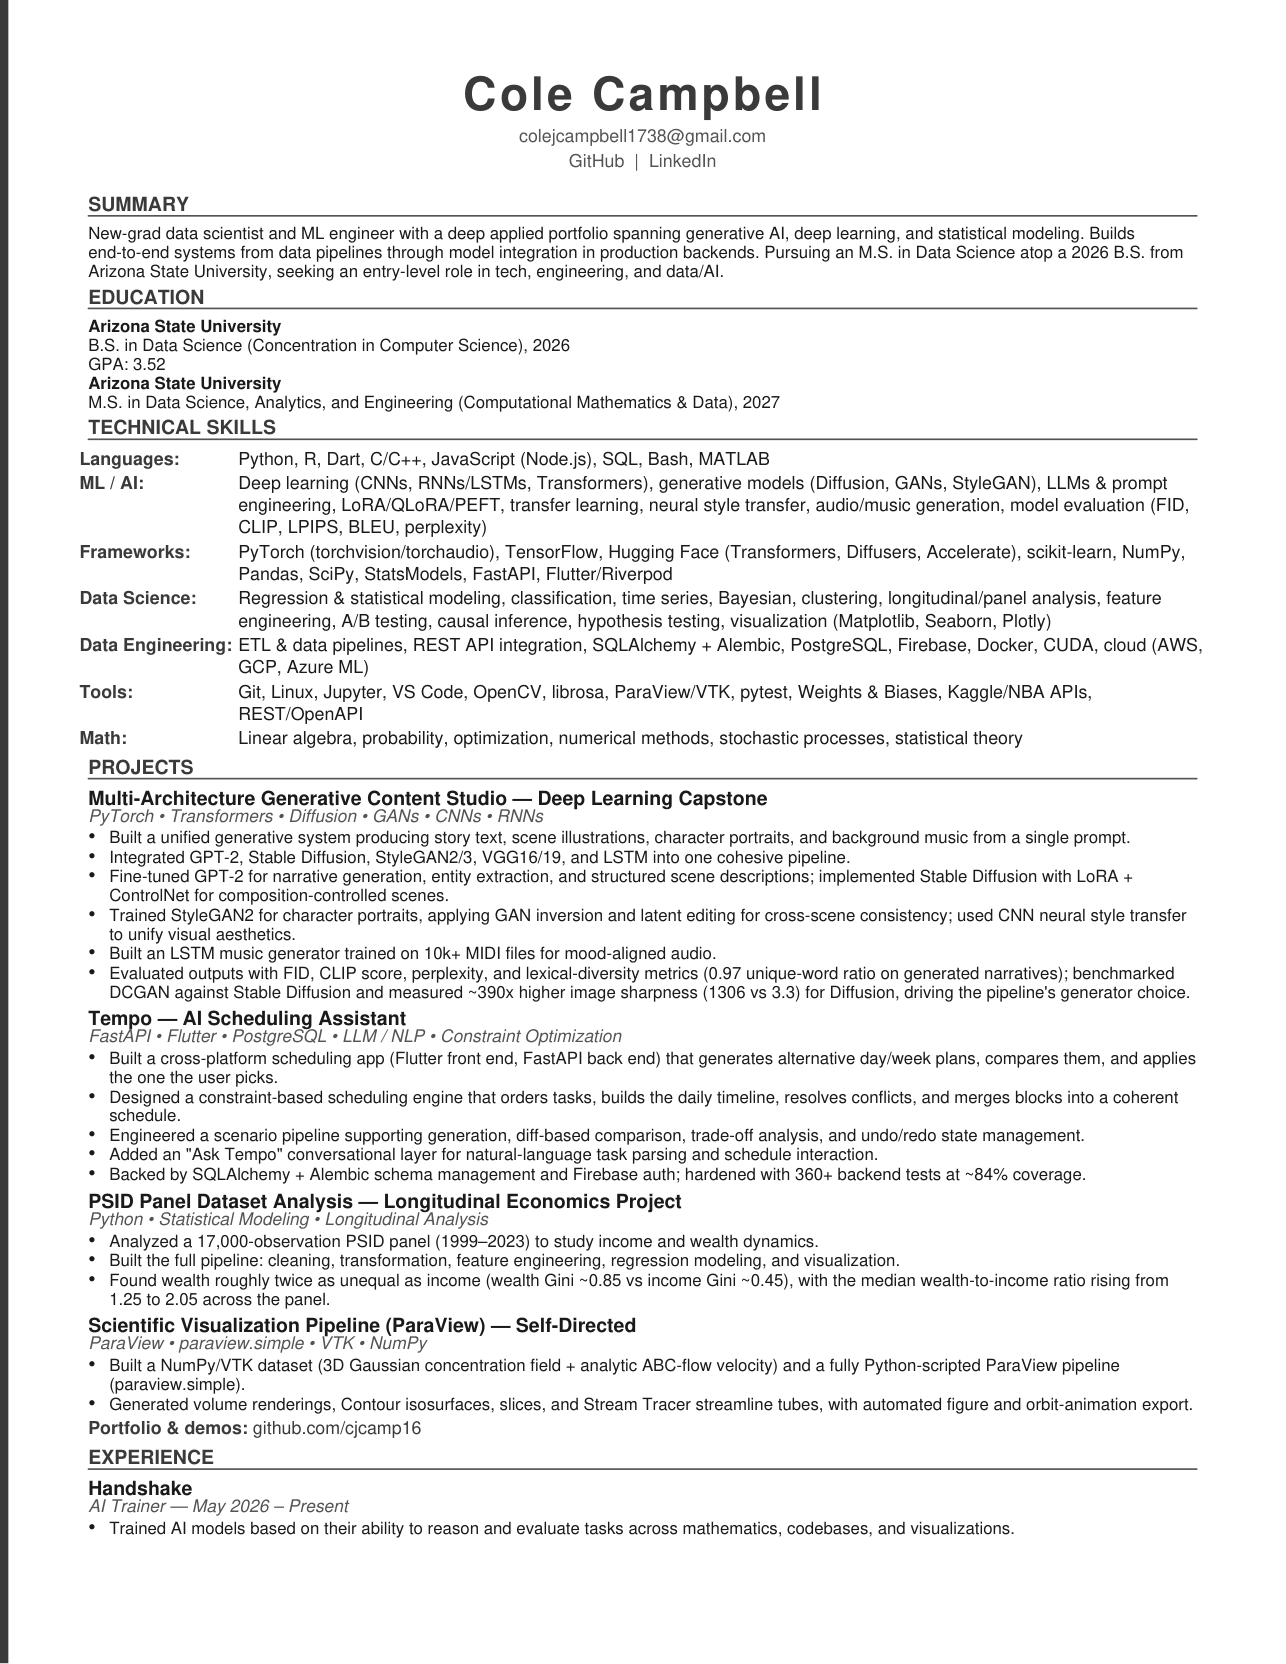
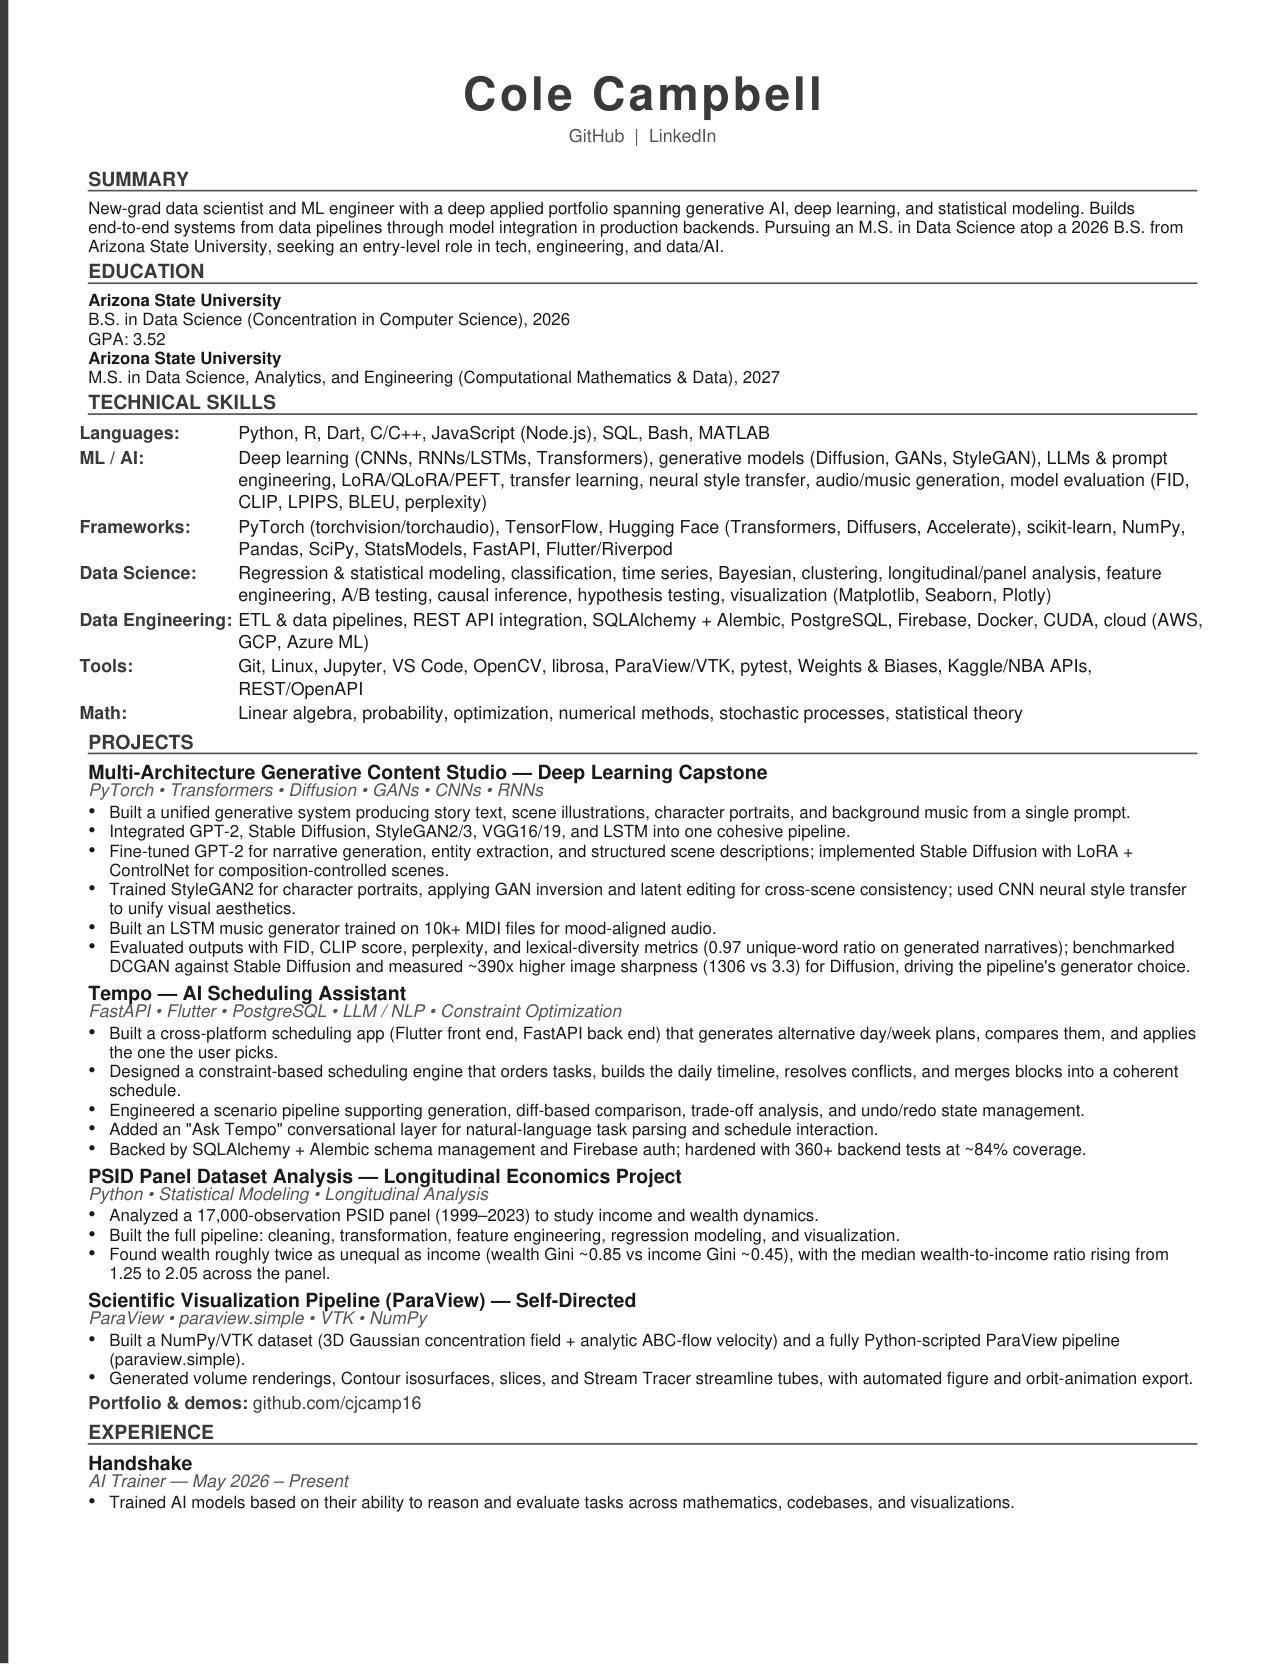
fix(styles): strip email from public résumés + sites too (anti-spam)

Changed region(s): [[0.0622, 0.0625, 0.9331, 0.9375]]

diff --git a/styles/assets/site/black-gold/index.html b/styles/assets/site/black-gold/index.html
@@ -84,14 +84,14 @@
   <section id="contact">
     <h2>Get in touch</h2>
     <p class="prose">Hiring, collaborating, or just want to say hi? The fastest way to reach me is below.</p>
-    <div class="cta-row"><a href="mailto:colejcampbell1738@gmail.com">colejcampbell1738@gmail.com</a><a href="https://github.com/cjcamp16" target="_blank" rel="noopener">GitHub</a><a href="https://www.linkedin.com/in/cole-campbell23" target="_blank" rel="noopener">LinkedIn</a></div>
+    <div class="cta-row"><a href="https://github.com/cjcamp16" target="_blank" rel="noopener">GitHub</a><a href="https://www.linkedin.com/in/cole-campbell23" target="_blank" rel="noopener">LinkedIn</a></div>
   </section>
 </main>
 
 <footer class="footer">
   <div class="wrap foot-inner">
     <span class="foot-name">Cole Campbell</span>
-    <span class="foot-links"><a href="mailto:colejcampbell1738@gmail.com">colejcampbell1738@gmail.com</a>  <a href="https://github.com/cjcamp16" target="_blank" rel="noopener">GitHub</a><a href="https://www.linkedin.com/in/cole-campbell23" target="_blank" rel="noopener">LinkedIn</a></span>
+    <span class="foot-links">  <a href="https://github.com/cjcamp16" target="_blank" rel="noopener">GitHub</a><a href="https://www.linkedin.com/in/cole-campbell23" target="_blank" rel="noopener">LinkedIn</a></span>
     <span class="foot-note">&copy; <span id="yr"></span> Cole Campbell</span>
   </div>
 </footer>

diff --git a/styles/assets/site/charcoal-teal/index.html b/styles/assets/site/charcoal-teal/index.html
@@ -84,14 +84,14 @@
   <section id="contact">
     <h2>Get in touch</h2>
     <p class="prose">Hiring, collaborating, or just want to say hi? The fastest way to reach me is below.</p>
-    <div class="cta-row"><a href="mailto:colejcampbell1738@gmail.com">colejcampbell1738@gmail.com</a><a href="https://github.com/cjcamp16" target="_blank" rel="noopener">GitHub</a><a href="https://www.linkedin.com/in/cole-campbell23" target="_blank" rel="noopener">LinkedIn</a></div>
+    <div class="cta-row"><a href="https://github.com/cjcamp16" target="_blank" rel="noopener">GitHub</a><a href="https://www.linkedin.com/in/cole-campbell23" target="_blank" rel="noopener">LinkedIn</a></div>
   </section>
 </main>
 
 <footer class="footer">
   <div class="wrap foot-inner">
     <span class="foot-name">Cole Campbell</span>
-    <span class="foot-links"><a href="mailto:colejcampbell1738@gmail.com">colejcampbell1738@gmail.com</a>  <a href="https://github.com/cjcamp16" target="_blank" rel="noopener">GitHub</a><a href="https://www.linkedin.com/in/cole-campbell23" target="_blank" rel="noopener">LinkedIn</a></span>
+    <span class="foot-links">  <a href="https://github.com/cjcamp16" target="_blank" rel="noopener">GitHub</a><a href="https://www.linkedin.com/in/cole-campbell23" target="_blank" rel="noopener">LinkedIn</a></span>
     <span class="foot-note">&copy; <span id="yr"></span> Cole Campbell</span>
   </div>
 </footer>

diff --git a/styles/assets/site/forest-sand/index.html b/styles/assets/site/forest-sand/index.html
@@ -84,14 +84,14 @@
   <section id="contact">
     <h2>Get in touch</h2>
     <p class="prose">Hiring, collaborating, or just want to say hi? The fastest way to reach me is below.</p>
-    <div class="cta-row"><a href="mailto:colejcampbell1738@gmail.com">colejcampbell1738@gmail.com</a><a href="https://github.com/cjcamp16" target="_blank" rel="noopener">GitHub</a><a href="https://www.linkedin.com/in/cole-campbell23" target="_blank" rel="noopener">LinkedIn</a></div>
+    <div class="cta-row"><a href="https://github.com/cjcamp16" target="_blank" rel="noopener">GitHub</a><a href="https://www.linkedin.com/in/cole-campbell23" target="_blank" rel="noopener">LinkedIn</a></div>
   </section>
 </main>
 
 <footer class="footer">
   <div class="wrap foot-inner">
     <span class="foot-name">Cole Campbell</span>
-    <span class="foot-links"><a href="mailto:colejcampbell1738@gmail.com">colejcampbell1738@gmail.com</a>  <a href="https://github.com/cjcamp16" target="_blank" rel="noopener">GitHub</a><a href="https://www.linkedin.com/in/cole-campbell23" target="_blank" rel="noopener">LinkedIn</a></span>
+    <span class="foot-links">  <a href="https://github.com/cjcamp16" target="_blank" rel="noopener">GitHub</a><a href="https://www.linkedin.com/in/cole-campbell23" target="_blank" rel="noopener">LinkedIn</a></span>
     <span class="foot-note">&copy; <span id="yr"></span> Cole Campbell</span>
   </div>
 </footer>

diff --git a/styles/assets/site/monochrome/index.html b/styles/assets/site/monochrome/index.html
@@ -84,14 +84,14 @@
   <section id="contact">
     <h2>Get in touch</h2>
     <p class="prose">Hiring, collaborating, or just want to say hi? The fastest way to reach me is below.</p>
-    <div class="cta-row"><a href="mailto:colejcampbell1738@gmail.com">colejcampbell1738@gmail.com</a><a href="https://github.com/cjcamp16" target="_blank" rel="noopener">GitHub</a><a href="https://www.linkedin.com/in/cole-campbell23" target="_blank" rel="noopener">LinkedIn</a></div>
+    <div class="cta-row"><a href="https://github.com/cjcamp16" target="_blank" rel="noopener">GitHub</a><a href="https://www.linkedin.com/in/cole-campbell23" target="_blank" rel="noopener">LinkedIn</a></div>
   </section>
 </main>
 
 <footer class="footer">
   <div class="wrap foot-inner">
     <span class="foot-name">Cole Campbell</span>
-    <span class="foot-links"><a href="mailto:colejcampbell1738@gmail.com">colejcampbell1738@gmail.com</a>  <a href="https://github.com/cjcamp16" target="_blank" rel="noopener">GitHub</a><a href="https://www.linkedin.com/in/cole-campbell23" target="_blank" rel="noopener">LinkedIn</a></span>
+    <span class="foot-links">  <a href="https://github.com/cjcamp16" target="_blank" rel="noopener">GitHub</a><a href="https://www.linkedin.com/in/cole-campbell23" target="_blank" rel="noopener">LinkedIn</a></span>
     <span class="foot-note">&copy; <span id="yr"></span> Cole Campbell</span>
   </div>
 </footer>

diff --git a/styles/assets/site/navy-maroon/index.html b/styles/assets/site/navy-maroon/index.html
@@ -84,14 +84,14 @@
   <section id="contact">
     <h2>Get in touch</h2>
     <p class="prose">Hiring, collaborating, or just want to say hi? The fastest way to reach me is below.</p>
-    <div class="cta-row"><a href="mailto:colejcampbell1738@gmail.com">colejcampbell1738@gmail.com</a><a href="https://github.com/cjcamp16" target="_blank" rel="noopener">GitHub</a><a href="https://www.linkedin.com/in/cole-campbell23" target="_blank" rel="noopener">LinkedIn</a></div>
+    <div class="cta-row"><a href="https://github.com/cjcamp16" target="_blank" rel="noopener">GitHub</a><a href="https://www.linkedin.com/in/cole-campbell23" target="_blank" rel="noopener">LinkedIn</a></div>
   </section>
 </main>
 
 <footer class="footer">
   <div class="wrap foot-inner">
     <span class="foot-name">Cole Campbell</span>
-    <span class="foot-links"><a href="mailto:colejcampbell1738@gmail.com">colejcampbell1738@gmail.com</a>  <a href="https://github.com/cjcamp16" target="_blank" rel="noopener">GitHub</a><a href="https://www.linkedin.com/in/cole-campbell23" target="_blank" rel="noopener">LinkedIn</a></span>
+    <span class="foot-links">  <a href="https://github.com/cjcamp16" target="_blank" rel="noopener">GitHub</a><a href="https://www.linkedin.com/in/cole-campbell23" target="_blank" rel="noopener">LinkedIn</a></span>
     <span class="foot-note">&copy; <span id="yr"></span> Cole Campbell</span>
   </div>
 </footer>

diff --git a/styles/assets/site/slate-blue/index.html b/styles/assets/site/slate-blue/index.html
@@ -84,14 +84,14 @@
   <section id="contact">
     <h2>Get in touch</h2>
     <p class="prose">Hiring, collaborating, or just want to say hi? The fastest way to reach me is below.</p>
-    <div class="cta-row"><a href="mailto:colejcampbell1738@gmail.com">colejcampbell1738@gmail.com</a><a href="https://github.com/cjcamp16" target="_blank" rel="noopener">GitHub</a><a href="https://www.linkedin.com/in/cole-campbell23" target="_blank" rel="noopener">LinkedIn</a></div>
+    <div class="cta-row"><a href="https://github.com/cjcamp16" target="_blank" rel="noopener">GitHub</a><a href="https://www.linkedin.com/in/cole-campbell23" target="_blank" rel="noopener">LinkedIn</a></div>
   </section>
 </main>
 
 <footer class="footer">
   <div class="wrap foot-inner">
     <span class="foot-name">Cole Campbell</span>
-    <span class="foot-links"><a href="mailto:colejcampbell1738@gmail.com">colejcampbell1738@gmail.com</a>  <a href="https://github.com/cjcamp16" target="_blank" rel="noopener">GitHub</a><a href="https://www.linkedin.com/in/cole-campbell23" target="_blank" rel="noopener">LinkedIn</a></span>
+    <span class="foot-links">  <a href="https://github.com/cjcamp16" target="_blank" rel="noopener">GitHub</a><a href="https://www.linkedin.com/in/cole-campbell23" target="_blank" rel="noopener">LinkedIn</a></span>
     <span class="foot-note">&copy; <span id="yr"></span> Cole Campbell</span>
   </div>
 </footer>
